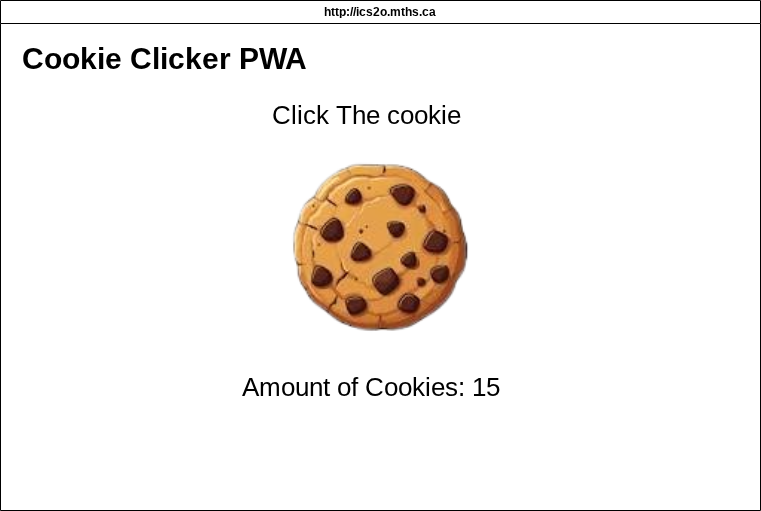
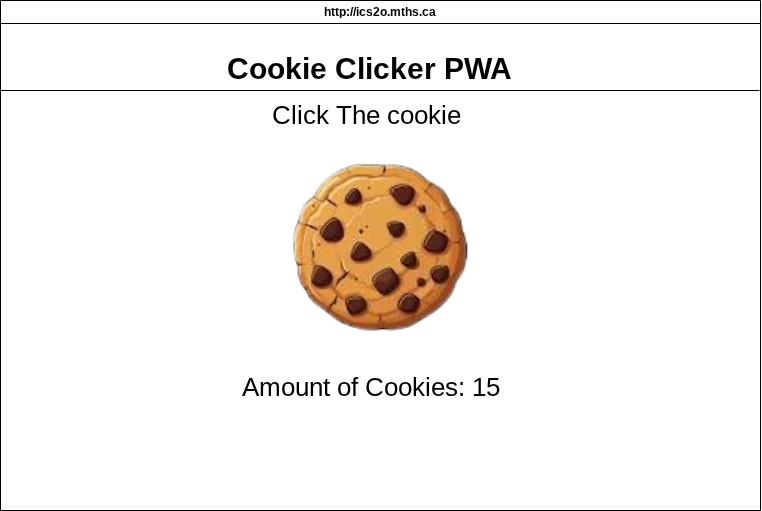
bwah

diff --git a/css/style.css b/css/style.css
@@ -4,41 +4,41 @@
 * This file contains the CSS for index.html
 */
 
+.mdl-layout__header-row {
+  justify-content: center;
+  padding: 0;
+}
+
 .mdl-layout__content {
   padding-left: 15pt;
   padding-right: 15pt;
   padding-top: 15pt;
 }
 
-/* Due to error in MDL : https://github.com/google/material-design-lite/issues/5281
-*/
-.mdl-ripple {
-  background: #000;
-  opacity: 0.001;
+.mdl-textfield__error {
+  color: #F00;
 }
 
-body {
-  background-color: rgb(176, 23, 253);
+.mdl-textfield--floating-label.is-focused .mdl-textfield__label,
+.mdl-textfield--floating-label.is-dirty .mdl-textfield__label,
+.mdl-textfield--floating-label.has-placeholder .mdl-textfield__label {
+  color: #929292;
 }
 
 .page-content {
-  color: rgb(0, 0, 0);
-  font-family: Helvetica, Arial, sans-serif;
-  font-size: 80px;
-  padding-top: 5pt;
+  color: #000;
+  font-family: "Times New Roman", Times, monospace;
+  font-size: 1.25rem;
   text-align: center;
+  display: block;
+  width: 100%;
+}
+
+body {
+  background-color: #a907f4;
 }
 
 img {
-  display: flex;
-  margin-left: auto;
-  margin-right: auto;
-  height: 350px;
-}
-
-#result {
-  color: rgb(0, 0, 0);
-  font-family: Helvetica, Arial, sans-serif;
-  font-size: 30px;
-  text-align: center;
+  height: 200px;
+  width: 200px;
 }
